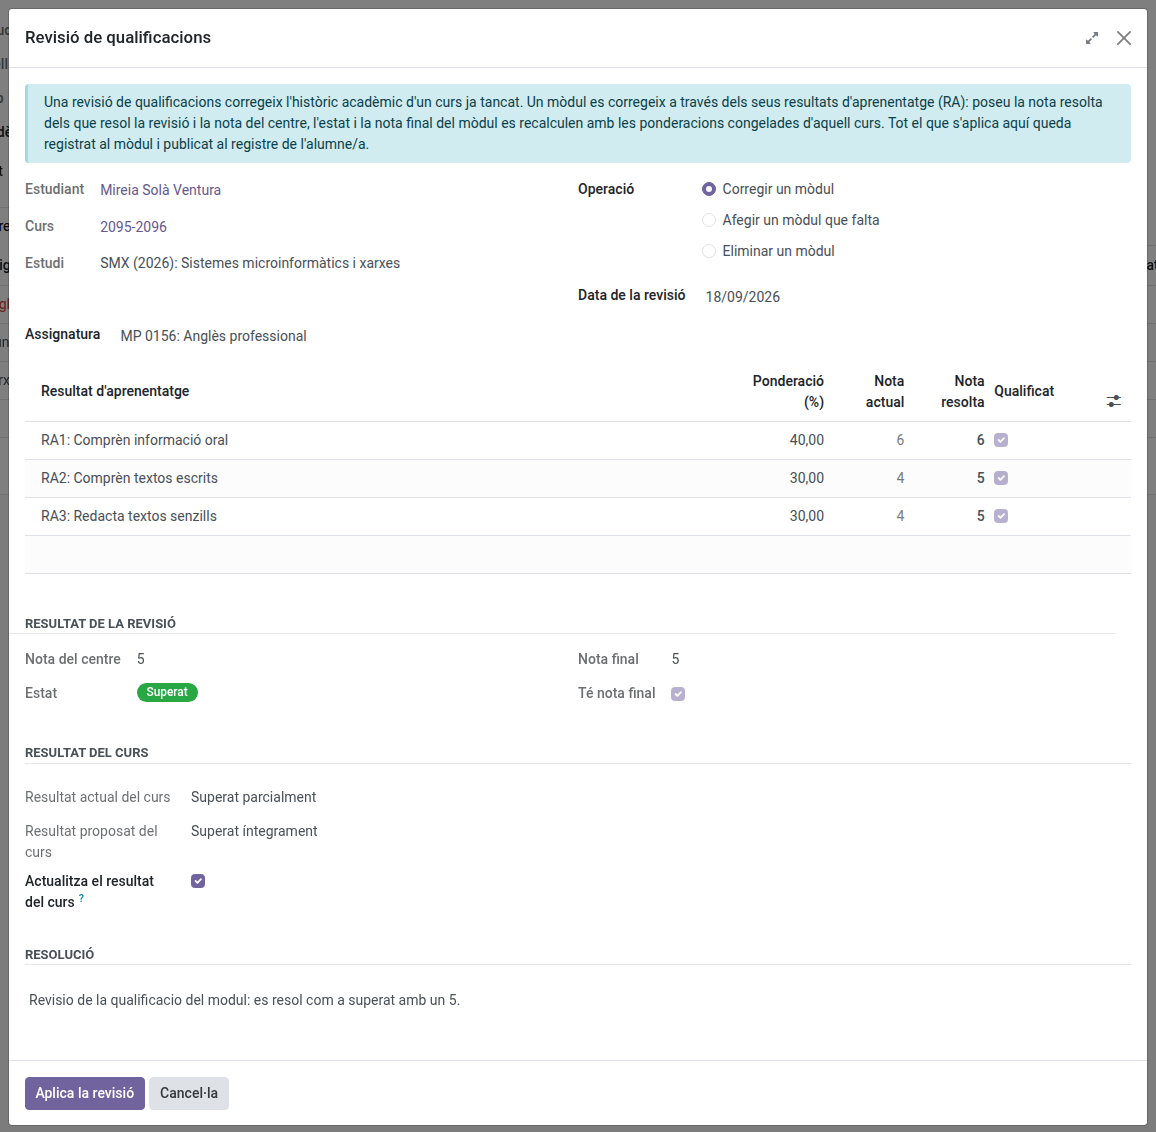
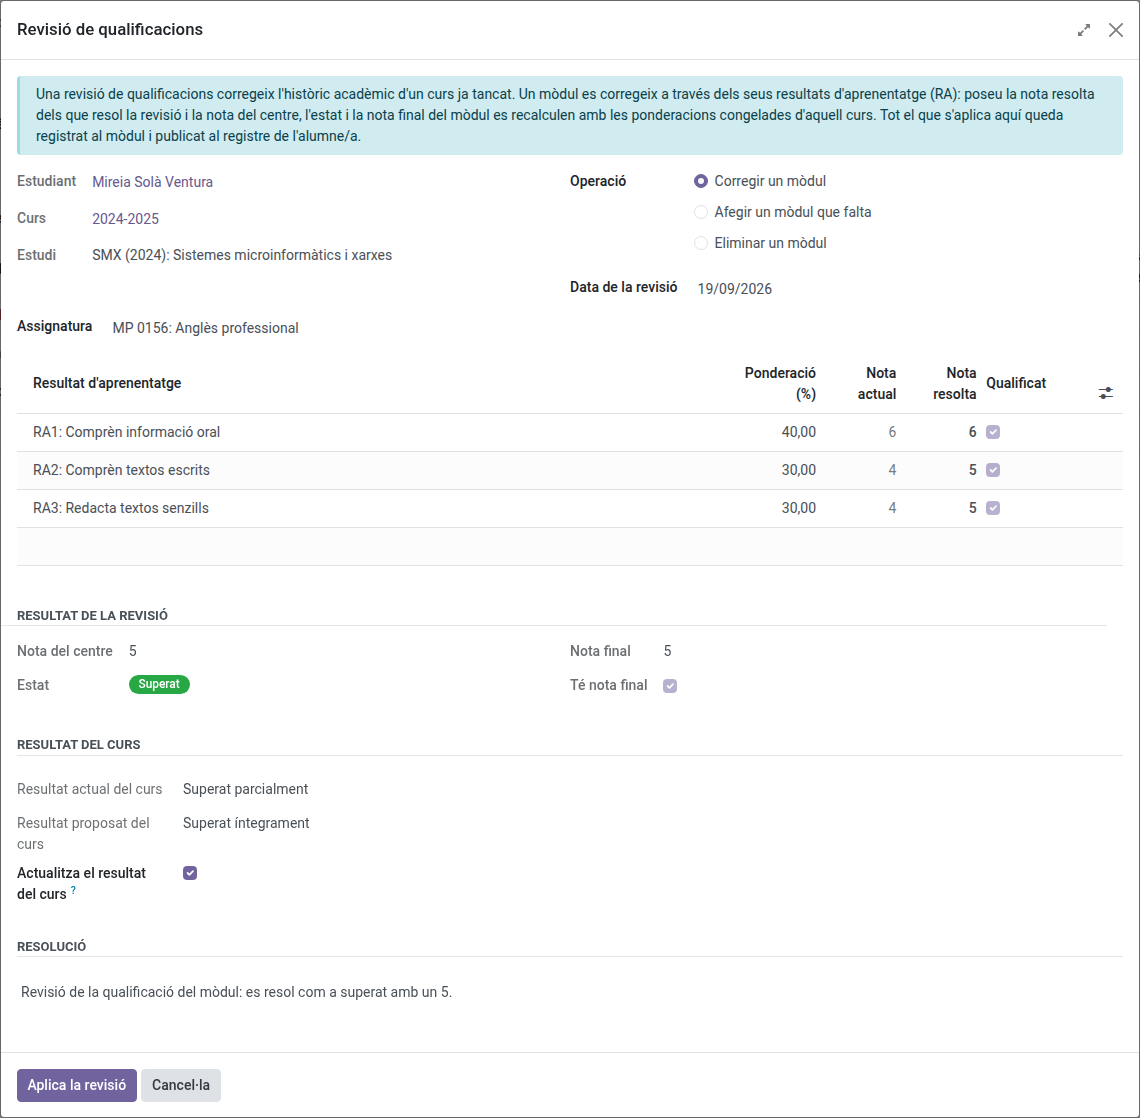
Make the academic history list headers readable and tidy the manual screenshots

diff --git a/static/src/css/backend/year_record.css b/static/src/css/backend/year_record.css
@@ -1,0 +1,17 @@
+/* Academic history (ems.student.year_record and its grade review wizard).
+
+   Odoo truncates a list column header with an ellipsis rather than wrapping it, and it gives
+   numeric columns a fixed narrow width that no dialog or screen width relaxes - measured: 71px
+   for a header needing 77px. So headers like "Nota resolta" or "Nota del centre" lost their
+   last characters, with no view-level attribute able to fix it. Let them use a second line
+   instead, the same way the work placement matrix already does (em_matrix.css).
+
+   The header text is not a direct child of its th (Odoo wraps it in a flex div carrying the
+   tooltip), so this has to be a descendant selector. */
+.o_ems_wrap_list_headers .o_list_renderer thead th,
+.o_ems_wrap_list_headers .o_list_renderer thead th span {
+    white-space: normal;
+    overflow: visible;
+    text-overflow: clip;
+    word-break: break-word;
+}

diff --git a/static/tests/tours/doc_shot_grade_review_tour.js b/static/tests/tours/doc_shot_grade_review_tour.js
@@ -52,7 +52,7 @@ registry.category("web_tour.tours").add("ems_doc_shot_grade_review", {
         {
             trigger: ".modal div[name='resolution'] textarea",
             content: "Write down what the review resolves",
-            run: "edit Revisio de la qualificacio del modul: es resol com a superat amb un 5.",
+            run: "edit Revisió de la qualificació del mòdul: es resol com a superat amb un 5.",
         },
         {
             trigger: ".modal div[name='preview_state'] .badge",

diff --git a/tests/test_docs_screenshots_academic_history.py b/tests/test_docs_screenshots_academic_history.py
@@ -30,11 +30,16 @@ class TestDocsScreenshotsAcademicHistory(DocsScreenshotMixin, HttpCase):
                                          email='secretaria.historic@example.com')
         create_role_employee(cls, cls.secretary, employee_type='asp', name='0000 Secretaria')
 
-        cls.course = cls.env['ems.course'].create({'start': 2095, 'end': 2096})
+        # A real past course, so the shot reads like the case this exists for: a file closed
+        # last year, reviewed now. Reused when the database already has it.
+        Course = cls.env['ems.course']
+        cls.course = Course.search([('start', '=', 2024)], limit=1) \
+            or Course.create({'start': 2024, 'end': 2025})
         cls.level, cls.study, cls.group = create_level_study_group(
             cls, 'DOCH',
             level={'name': 'Cicles Formatius (Grau Mitjà)'},
-            study={'code': 'DOCHSMX', 'acronym': 'SMX',
+            # The study's own year is part of its name on screen, so it matches the course.
+            study={'code': 'DOCHSMX', 'acronym': 'SMX', 'date': '2024-01-01',
                    'name': 'Sistemes microinformàtics i xarxes'},
         )
         # Invented student and modules - nothing from this box's real data.
@@ -83,4 +88,7 @@ class TestDocsScreenshotsAcademicHistory(DocsScreenshotMixin, HttpCase):
             record_url, '.modal-content', 'academic-history-grade-review.png',
             login='doc_shot_history_secretary',
             tour='ems_doc_shot_grade_review',
+            # No padding: the dialog's own edges are the crop, or the shot bleeds a sliver of
+            # the page behind it in through the backdrop.
+            padding=0,
         )

diff --git a/changelog/493-academic-history-grade-review.md b/changelog/493-academic-history-grade-review.md
@@ -32,7 +32,7 @@ The subject picker of the grade review wizard offers a "Search More..." dialog w
 
 ## The grade review dialog was hard to read:
 
-Nothing told the frozen values of the outcome grid apart from the grade the operator is meant to type: Odoo only marks a read-only cell once its row is in edit mode, so until the first click every column looked equally editable. The current grade is now muted and the grade being resolved is emphasised, and the column that was purely informative is hidden by default. The column headers were also losing their last characters to an ellipsis - Odoo gives numeric columns a fixed narrow width and truncates rather than wrapping a header that does not fit, and no dialog width relaxes it - so they now use a second line, the same way the work placement matrix already does. The dialog itself opens wider, which gives the learning outcomes' own names room to be read.
+Nothing told the frozen values of the outcome grid apart from the grade the operator is meant to type: Odoo only marks a read-only cell once its row is in edit mode, so until the first click every column looked equally editable. The current grade is now muted and the grade being resolved is emphasised, and the column that was purely informative is hidden by default. The column headers were also losing their last characters to an ellipsis - Odoo gives numeric columns a fixed narrow width and truncates rather than wrapping a header that does not fit, and no width relaxes it - so they now use a second line, the same way the work placement matrix already does. The same treatment fixes the subjects list of the course record itself, where several headers were equally unreadable, and the work placement column there is now simply labelled "EM". The dialog also opens wider, which gives the learning outcomes' own names room to be read.
 
 # Internal changes
 
